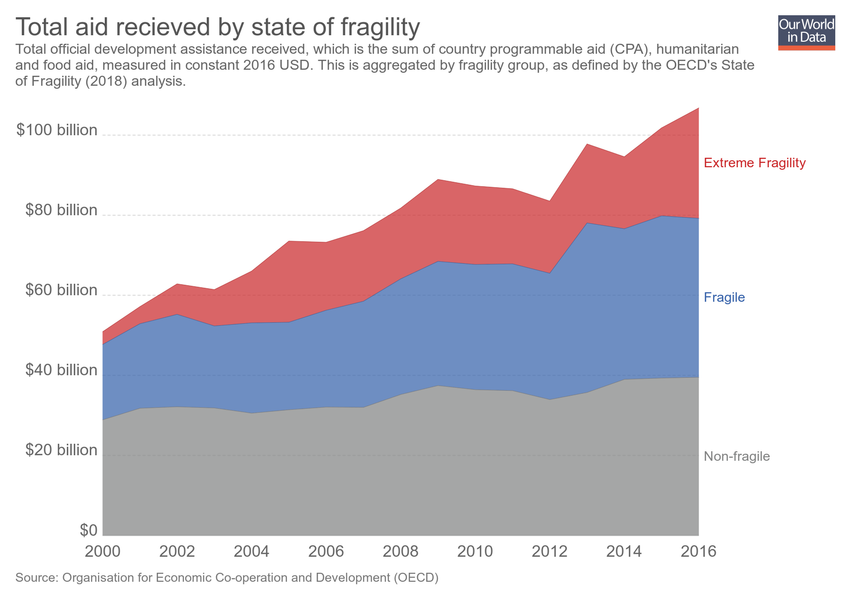
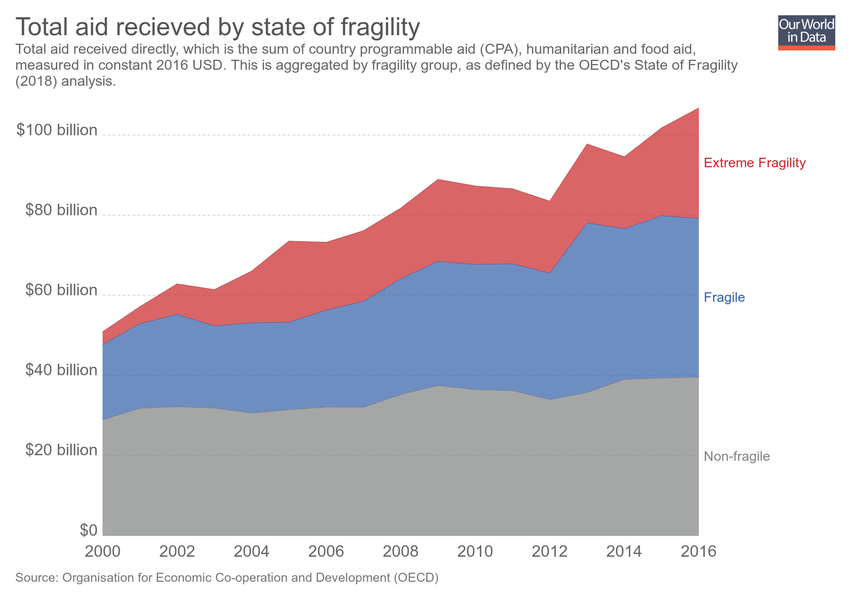
Updating chart aid-recieved-fragility

Changed region(s): [[0.0, 0.06, 0.8871, 0.15]]

diff --git a/grapher/aid-received-per-capita.html b/grapher/aid-received-per-capita.html
@@ -1,4 +1,4 @@
-<!doctype html><html><head><meta name="viewport" content="width=device-width, initial-scale=1" /><title>Aid received per capita - Our World in Data</title><meta name="description" content="Total official development assistance received per person. This is the sum of country programmable aid (CPA), humanitarian and food aid. This is measured in constant 2016 USD per person. Data from 2017 to 2019 is based on forward spending plans of CPA." /><link rel="canonical" href="https://ourworldindata.org/grapher/aid-received-per-capita" /><meta property="fb:app_id" content="1149943818390250" /><meta property="og:url" content="https://ourworldindata.org/grapher/aid-received-per-capita" /><meta property="og:title" content="Aid received per capita" /><meta property="og:description" content="Total official development assistance received per person. This is the sum of country programmable aid (CPA), humanitarian and food aid. This is measured in constant 2016 USD per person. Data from 2017 to 2019 is based on forward spending plans of CPA." /><meta property="og:image" content="https://ourworldindata.org/grapher/exports/aid-received-per-capita.png?v=3" /><meta property="og:image:width" content="850" /><meta property="og:image:height" content="600" /><meta property="og:site_name" content="Our World in Data" /><meta name="twitter:card" content="summary_large_image" /><meta name="twitter:site" content="@OurWorldInData" /><meta name="twitter:creator" content="@OurWorldInData" /><meta name="twitter:title" content="Aid received per capita" /><meta name="twitter:description" content="Total official development assistance received per person. This is the sum of country programmable aid (CPA), humanitarian and food aid. This is measured in constant 2016 USD per person. Data from 2017 to 2019 is based on forward spending plans of CPA." /><meta name="twitter:image" content="https://ourworldindata.org/grapher/exports/aid-received-per-capita.png?v=3" /><style>
+<!doctype html><html><head><meta name="viewport" content="width=device-width, initial-scale=1" /><title>Aid received per capita - Our World in Data</title><meta name="description" content="Total aid received directly per person. This is the sum of country programmable aid (CPA), humanitarian and food aid. This is measured in constant 2016 USD per person. Data from 2017 to 2019 is based on forward spending plans of CPA." /><link rel="canonical" href="https://ourworldindata.org/grapher/aid-received-per-capita" /><meta property="fb:app_id" content="1149943818390250" /><meta property="og:url" content="https://ourworldindata.org/grapher/aid-received-per-capita" /><meta property="og:title" content="Aid received per capita" /><meta property="og:description" content="Total aid received directly per person. This is the sum of country programmable aid (CPA), humanitarian and food aid. This is measured in constant 2016 USD per person. Data from 2017 to 2019 is based on forward spending plans of CPA." /><meta property="og:image" content="https://ourworldindata.org/grapher/exports/aid-received-per-capita.png?v=4" /><meta property="og:image:width" content="850" /><meta property="og:image:height" content="600" /><meta property="og:site_name" content="Our World in Data" /><meta name="twitter:card" content="summary_large_image" /><meta name="twitter:site" content="@OurWorldInData" /><meta name="twitter:creator" content="@OurWorldInData" /><meta name="twitter:title" content="Aid received per capita" /><meta name="twitter:description" content="Total aid received directly per person. This is the sum of country programmable aid (CPA), humanitarian and food aid. This is measured in constant 2016 USD per person. Data from 2017 to 2019 is based on forward spending plans of CPA." /><meta name="twitter:image" content="https://ourworldindata.org/grapher/exports/aid-received-per-capita.png?v=4" /><style>
         html, body {
             height: 100%;
             margin: 0;
@@ -20,8 +20,8 @@
         }
     </style><noscript><style>
                     figure { display: none !important; }
-                </style></noscript><link rel="stylesheet" href="https://ourworldindata.org/grapher/assets/commons.bundle.9b8c6ed3f71d7662b5f2.css" /><link rel="preload" href="/grapher/data/variables/98728.json?v=3" as="fetch" crossorigin /></head><body class="singleChart"><figure data-grapher-src="/grapher/aid-received-per-capita"></figure><noscript id="fallback"><img src="/grapher/exports/aid-received-per-capita.svg" /><p>Interactive visualization requires JavaScript</p></noscript><script src="https://cdn.polyfill.io/v2/polyfill.min.js?features=es6,fetch"></script><script src="https://ourworldindata.org/grapher/assets/commons.bundle.9b8c6ed3f71d7662b5f2.js"></script><script src="https://ourworldindata.org/grapher/assets/charts.bundle.9b8c6ed3f71d7662b5f2.js"></script><script>
-        var jsonConfig = {"id":3143,"map":{"projection":"World","targetYear":2016,"variableId":98728,"equalSizeBins":true,"baseColorScheme":"YlGnBu","isManualBuckets":true,"colorSchemeLabels":[],"colorSchemeValues":[1,5,10,50,100,200,500,1000],"customNumericColors":[],"customCategoryColors":{},"customCategoryLabels":{},"customHiddenCategories":{}},"tab":"map","slug":"aid-received-per-capita","type":"LineChart","title":"Aid received per capita","xAxis":{"scaleType":"linear"},"yAxis":{"min":0,"scaleType":"linear"},"maxTime":2016,"version":3,"subtitle":"Total official development assistance received per person. This is the sum of country programmable aid (CPA), humanitarian and food aid. This is measured in constant 2016 USD per person. Data from 2017 to 2019 is based on forward spending plans of CPA.","hasMapTab":true,"stackMode":"absolute","dimensions":[{"display":{"unit":"USD per person","numDecimalPlaces":2},"property":"y","variableId":98728}],"entityType":"country/region","sourceDesc":"Organisation for Economic Co-operation and Development (OECD)","hasChartTab":true,"isAutoTitle":true,"isPublished":true,"selectedData":[{"index":0,"entityId":273},{"index":0,"entityId":275},{"index":0,"entityId":277},{"index":0,"entityId":47957},{"index":0,"entityId":38229},{"index":0,"entityId":44357},{"index":0,"entityId":38218},{"index":0,"entityId":38220},{"index":0,"entityId":343}],"internalNotes":"For OECD report - do not delete.","addCountryMode":"add-country"};
+                </style></noscript><link rel="stylesheet" href="https://ourworldindata.org/grapher/assets/commons.bundle.9b8c6ed3f71d7662b5f2.css" /><link rel="preload" href="/grapher/data/variables/98728.json?v=4" as="fetch" crossorigin /></head><body class="singleChart"><figure data-grapher-src="/grapher/aid-received-per-capita"></figure><noscript id="fallback"><img src="/grapher/exports/aid-received-per-capita.svg" /><p>Interactive visualization requires JavaScript</p></noscript><script src="https://cdn.polyfill.io/v2/polyfill.min.js?features=es6,fetch"></script><script src="https://ourworldindata.org/grapher/assets/commons.bundle.9b8c6ed3f71d7662b5f2.js"></script><script src="https://ourworldindata.org/grapher/assets/charts.bundle.9b8c6ed3f71d7662b5f2.js"></script><script>
+        var jsonConfig = {"id":3143,"map":{"projection":"World","targetYear":2016,"variableId":98728,"equalSizeBins":true,"baseColorScheme":"YlGnBu","isManualBuckets":true,"colorSchemeLabels":[],"colorSchemeValues":[1,5,10,50,100,200,500,1000],"customNumericColors":[],"customCategoryColors":{},"customCategoryLabels":{},"customHiddenCategories":{}},"tab":"map","slug":"aid-received-per-capita","type":"LineChart","title":"Aid received per capita","xAxis":{"scaleType":"linear"},"yAxis":{"min":0,"scaleType":"linear"},"maxTime":2016,"version":4,"subtitle":"Total aid received directly per person. This is the sum of country programmable aid (CPA), humanitarian and food aid. This is measured in constant 2016 USD per person. Data from 2017 to 2019 is based on forward spending plans of CPA.","hasMapTab":true,"stackMode":"absolute","dimensions":[{"display":{"unit":"USD per person","numDecimalPlaces":2},"property":"y","variableId":98728}],"entityType":"country/region","sourceDesc":"Organisation for Economic Co-operation and Development (OECD)","hasChartTab":true,"isAutoTitle":true,"isPublished":true,"selectedData":[{"index":0,"entityId":273},{"index":0,"entityId":275},{"index":0,"entityId":277},{"index":0,"entityId":47957},{"index":0,"entityId":38229},{"index":0,"entityId":44357},{"index":0,"entityId":38218},{"index":0,"entityId":38220},{"index":0,"entityId":343}],"internalNotes":"For OECD report - do not delete.","addCountryMode":"add-country"};
         var figure = document.getElementsByTagName("figure")[0];
         try {
             window.App = {};

diff --git a/grapher/aid-recieved-fragility.html b/grapher/aid-recieved-fragility.html
@@ -1,4 +1,4 @@
-<!doctype html><html><head><meta name="viewport" content="width=device-width, initial-scale=1" /><title>Total aid recieved by state of fragility - Our World in Data</title><meta name="description" content="Total official development assistance received, which is the sum of country programmable aid (CPA), humanitarian and food aid, measured in constant 2016 USD. This is aggregated by fragility group, as defined by the OECD's State of Fragility (2018) analysis." /><link rel="canonical" href="https://ourworldindata.org/grapher/aid-recieved-fragility" /><meta property="fb:app_id" content="1149943818390250" /><meta property="og:url" content="https://ourworldindata.org/grapher/aid-recieved-fragility" /><meta property="og:title" content="Total aid recieved by state of fragility" /><meta property="og:description" content="Total official development assistance received, which is the sum of country programmable aid (CPA), humanitarian and food aid, measured in constant 2016 USD. This is aggregated by fragility group, as defined by the OECD's State of Fragility (2018) analysis." /><meta property="og:image" content="https://ourworldindata.org/grapher/exports/aid-recieved-fragility.png?v=1" /><meta property="og:image:width" content="850" /><meta property="og:image:height" content="600" /><meta property="og:site_name" content="Our World in Data" /><meta name="twitter:card" content="summary_large_image" /><meta name="twitter:site" content="@OurWorldInData" /><meta name="twitter:creator" content="@OurWorldInData" /><meta name="twitter:title" content="Total aid recieved by state of fragility" /><meta name="twitter:description" content="Total official development assistance received, which is the sum of country programmable aid (CPA), humanitarian and food aid, measured in constant 2016 USD. This is aggregated by fragility group, as defined by the OECD's State of Fragility (2018) analysis." /><meta name="twitter:image" content="https://ourworldindata.org/grapher/exports/aid-recieved-fragility.png?v=1" /><style>
+<!doctype html><html><head><meta name="viewport" content="width=device-width, initial-scale=1" /><title>Total aid recieved by state of fragility - Our World in Data</title><meta name="description" content="Total aid received directly, which is the sum of country programmable aid (CPA), humanitarian and food aid, measured in constant 2016 USD. This is aggregated by fragility group, as defined by the OECD's State of Fragility (2018) analysis." /><link rel="canonical" href="https://ourworldindata.org/grapher/aid-recieved-fragility" /><meta property="fb:app_id" content="1149943818390250" /><meta property="og:url" content="https://ourworldindata.org/grapher/aid-recieved-fragility" /><meta property="og:title" content="Total aid recieved by state of fragility" /><meta property="og:description" content="Total aid received directly, which is the sum of country programmable aid (CPA), humanitarian and food aid, measured in constant 2016 USD. This is aggregated by fragility group, as defined by the OECD's State of Fragility (2018) analysis." /><meta property="og:image" content="https://ourworldindata.org/grapher/exports/aid-recieved-fragility.png?v=2" /><meta property="og:image:width" content="850" /><meta property="og:image:height" content="600" /><meta property="og:site_name" content="Our World in Data" /><meta name="twitter:card" content="summary_large_image" /><meta name="twitter:site" content="@OurWorldInData" /><meta name="twitter:creator" content="@OurWorldInData" /><meta name="twitter:title" content="Total aid recieved by state of fragility" /><meta name="twitter:description" content="Total aid received directly, which is the sum of country programmable aid (CPA), humanitarian and food aid, measured in constant 2016 USD. This is aggregated by fragility group, as defined by the OECD's State of Fragility (2018) analysis." /><meta name="twitter:image" content="https://ourworldindata.org/grapher/exports/aid-recieved-fragility.png?v=2" /><style>
         html, body {
             height: 100%;
             margin: 0;
@@ -20,8 +20,8 @@
         }
     </style><noscript><style>
                     figure { display: none !important; }
-                </style></noscript><link rel="stylesheet" href="https://ourworldindata.org/grapher/assets/commons.bundle.9b8c6ed3f71d7662b5f2.css" /><link rel="preload" href="/grapher/data/variables/98727.json?v=1" as="fetch" crossorigin /></head><body class="singleChart"><figure data-grapher-src="/grapher/aid-recieved-fragility"></figure><noscript id="fallback"><img src="/grapher/exports/aid-recieved-fragility.svg" /><p>Interactive visualization requires JavaScript</p></noscript><script src="https://cdn.polyfill.io/v2/polyfill.min.js?features=es6,fetch"></script><script src="https://ourworldindata.org/grapher/assets/commons.bundle.9b8c6ed3f71d7662b5f2.js"></script><script src="https://ourworldindata.org/grapher/assets/charts.bundle.9b8c6ed3f71d7662b5f2.js"></script><script>
-        var jsonConfig = {"map":{"projection":"World","colorSchemeLabels":[],"colorSchemeValues":[],"customNumericColors":[],"customCategoryColors":{},"customCategoryLabels":{},"customHiddenCategories":{}},"tab":"chart","slug":"aid-recieved-fragility","type":"StackedArea","title":"Total aid recieved by state of fragility","xAxis":{"scaleType":"linear"},"yAxis":{"min":0,"scaleType":"linear"},"maxTime":2016,"version":1,"subtitle":"Total official development assistance received, which is the sum of country programmable aid (CPA), humanitarian and food aid, measured in constant 2016 USD. This is aggregated by fragility group, as defined by the OECD's State of Fragility (2018) analysis.","hasMapTab":false,"stackMode":"absolute","dimensions":[{"display":{},"property":"y","variableId":98727}],"sourceDesc":"Organisation for Economic Co-operation and Development (OECD)","hasChartTab":true,"isPublished":true,"selectedData":[{"color":"#ca2628","index":0,"entityId":44357},{"color":"#3360a9","index":0,"entityId":38218},{"color":"#818282","index":0,"entityId":38220}],"internalNotes":"For OECD report - do not delete","addCountryMode":"disabled","id":3145};
+                </style></noscript><link rel="stylesheet" href="https://ourworldindata.org/grapher/assets/commons.bundle.9b8c6ed3f71d7662b5f2.css" /><link rel="preload" href="/grapher/data/variables/98727.json?v=2" as="fetch" crossorigin /></head><body class="singleChart"><figure data-grapher-src="/grapher/aid-recieved-fragility"></figure><noscript id="fallback"><img src="/grapher/exports/aid-recieved-fragility.svg" /><p>Interactive visualization requires JavaScript</p></noscript><script src="https://cdn.polyfill.io/v2/polyfill.min.js?features=es6,fetch"></script><script src="https://ourworldindata.org/grapher/assets/commons.bundle.9b8c6ed3f71d7662b5f2.js"></script><script src="https://ourworldindata.org/grapher/assets/charts.bundle.9b8c6ed3f71d7662b5f2.js"></script><script>
+        var jsonConfig = {"id":3145,"map":{"projection":"World","colorSchemeLabels":[],"colorSchemeValues":[],"customNumericColors":[],"customCategoryColors":{},"customCategoryLabels":{},"customHiddenCategories":{}},"tab":"chart","slug":"aid-recieved-fragility","type":"StackedArea","title":"Total aid recieved by state of fragility","xAxis":{"scaleType":"linear"},"yAxis":{"min":0,"scaleType":"linear"},"maxTime":2016,"version":2,"subtitle":"Total aid received directly, which is the sum of country programmable aid (CPA), humanitarian and food aid, measured in constant 2016 USD. This is aggregated by fragility group, as defined by the OECD's State of Fragility (2018) analysis.","hasMapTab":false,"stackMode":"absolute","dimensions":[{"display":{},"property":"y","variableId":98727}],"sourceDesc":"Organisation for Economic Co-operation and Development (OECD)","hasChartTab":true,"isPublished":true,"selectedData":[{"color":"#ca2628","index":0,"entityId":44357},{"color":"#3360a9","index":0,"entityId":38218},{"color":"#818282","index":0,"entityId":38220}],"internalNotes":"For OECD report - do not delete","addCountryMode":"disabled"};
         var figure = document.getElementsByTagName("figure")[0];
         try {
             window.App = {};
